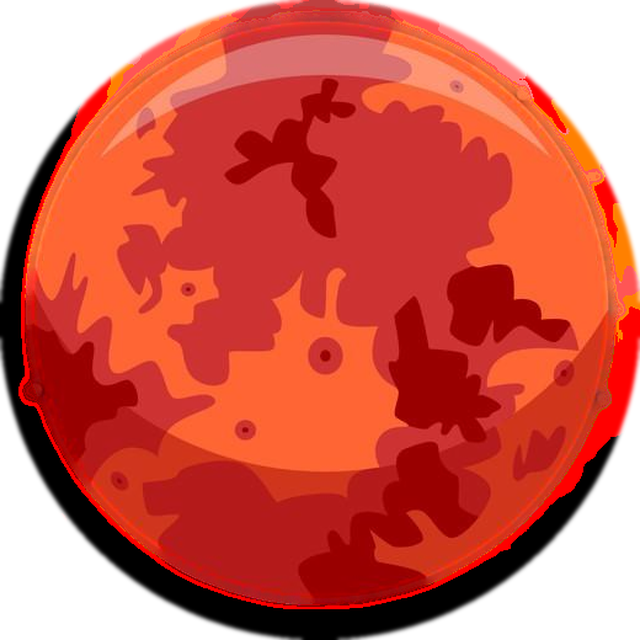
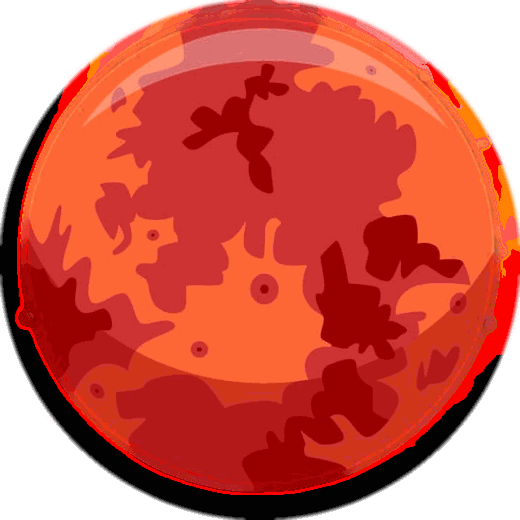
交付级优化：资源压缩 1.66MB→633KB、产品卡对比度修复、404 品牌化、focus 焦点样式、图片尺寸属性、补 robots/sitemap

diff --git a/index.html b/index.html
@@ -55,7 +55,7 @@
       </div>
     </div>
     <div class="hero-art reveal delay-1" aria-hidden="true">
-      <img src="assets/img/mars-planet.png" alt="" width="640" height="640">
+      <img src="assets/img/mars-planet.png" alt="" width="520" height="520">
     </div>
   </div>
   <div class="hero-stats">
@@ -194,7 +194,7 @@
     <div class="prod-grid">
       <article class="prod-card reveal">
         <a href="product-astaxanthin.html" class="prod-img" aria-label="查看双抗虾青素胶囊详情">
-          <img src="assets/img/product-astaxanthin.jpg" alt="POPNUTRI 双抗虾青素胶囊" loading="lazy">
+          <img src="assets/img/product-astaxanthin.jpg" alt="POPNUTRI 双抗虾青素胶囊" width="800" height="976" loading="lazy">
         </a>
         <div class="prod-body">
           <h3><a href="product-astaxanthin.html">双抗虾青素胶囊</a></h3>
@@ -206,7 +206,7 @@
       </article>
       <article class="prod-card reveal delay-1">
         <a href="product-oyster.html" class="prod-img" aria-label="查看牡蛎袋鼠精华胶囊详情">
-          <img src="assets/img/product-oyster.jpg" alt="POPNUTRI 牡蛎袋鼠精华胶囊" loading="lazy">
+          <img src="assets/img/product-oyster.jpg" alt="POPNUTRI 牡蛎袋鼠精华胶囊" width="620" height="440" loading="lazy">
         </a>
         <div class="prod-body">
           <h3><a href="product-oyster.html">牡蛎袋鼠精华胶囊</a></h3>
@@ -233,17 +233,17 @@
     </div>
     <div class="partner-grid">
       <article class="partner-card reveal">
-        <div class="p-logo"><img src="assets/img/logo-unipharm.png" alt="UNIPHARM" loading="lazy"></div>
+        <div class="p-logo"><img src="assets/img/logo-unipharm.jpg" alt="UNIPHARM" width="546" height="457" loading="lazy"></div>
         <h3>新西兰联合制药</h3>
         <p>45 年+ 制药集团 · RMP / FDA / HACCP 认证</p>
       </article>
       <article class="partner-card reveal delay-1">
-        <div class="p-logo"><img src="assets/img/logo-aunew.png" alt="AUNEW" loading="lazy"></div>
+        <div class="p-logo"><img src="assets/img/logo-aunew.jpg" alt="AUNEW" width="585" height="232" loading="lazy"></div>
         <h3>澳纽集团</h3>
         <p>成立于 1994 年 · 横跨大洋洲与亚洲的跨国公司</p>
       </article>
       <article class="partner-card reveal delay-2">
-        <div class="p-logo"><img src="assets/img/logo-popnutri.png" alt="POPNUTRI" loading="lazy"></div>
+        <div class="p-logo"><img src="assets/img/logo-popnutri.jpg" alt="POPNUTRI" width="410" height="410" loading="lazy"></div>
         <h3>POPNUTRI 葆力舒</h3>
         <p>新西兰营养健康管理专家品牌</p>
       </article>

diff --git a/products.html b/products.html
@@ -45,9 +45,9 @@
   <div class="container">
     <div class="prod-story reveal">
       <div class="story-imgs">
-        <img src="assets/img/unipharm-hq.jpg" alt="新西兰联合制药 UNIPHARM 总部" loading="lazy">
-        <img src="assets/img/gmp-factory.jpg" alt="新西兰 GMP 生产基地" loading="lazy">
-        <img src="assets/img/nz-coast.jpg" alt="新西兰天然海岸" loading="lazy">
+        <img src="assets/img/unipharm-hq.jpg" alt="新西兰联合制药 UNIPHARM 总部" width="453" height="456" loading="lazy">
+        <img src="assets/img/gmp-factory.jpg" alt="新西兰 GMP 生产基地" width="639" height="504" loading="lazy">
+        <img src="assets/img/nz-coast.jpg" alt="新西兰天然海岸" width="800" height="800" loading="lazy">
       </div>
       <p class="story-cap">FROM NEW ZEALAND · UNIPHARM 新西兰联合制药（45 年+ 制药集团）× AUNEW 澳纽集团（成立于 1994 年）联合出品</p>
     </div>
@@ -55,7 +55,7 @@
     <div class="prod-grid">
       <article class="prod-card reveal">
         <a href="product-astaxanthin.html" class="prod-img" aria-label="查看双抗虾青素胶囊详情">
-          <img src="assets/img/product-astaxanthin.jpg" alt="POPNUTRI 双抗虾青素胶囊" loading="lazy">
+          <img src="assets/img/product-astaxanthin.jpg" alt="POPNUTRI 双抗虾青素胶囊" width="800" height="976" loading="lazy">
         </a>
         <div class="prod-body">
           <h3><a href="product-astaxanthin.html">双抗虾青素胶囊</a></h3>
@@ -67,7 +67,7 @@
       </article>
       <article class="prod-card reveal delay-1">
         <a href="product-oyster.html" class="prod-img" aria-label="查看牡蛎袋鼠精华胶囊详情">
-          <img src="assets/img/product-oyster.jpg" alt="POPNUTRI 牡蛎袋鼠精华胶囊" loading="lazy">
+          <img src="assets/img/product-oyster.jpg" alt="POPNUTRI 牡蛎袋鼠精华胶囊" width="620" height="440" loading="lazy">
         </a>
         <div class="prod-body">
           <h3><a href="product-oyster.html">牡蛎袋鼠精华胶囊</a></h3>
@@ -85,7 +85,7 @@
   <div class="container">
     <div class="sec-head reveal">
       <p class="kicker gold">COMING SOON</p>
-      <h2 style="color:#fff;">即将上市 <em>未来产品规划</em></h2>
+      <h2>即将上市 <em>未来产品规划</em></h2>
       <p class="sub light">持续丰富大健康产品线，覆盖护肝、关节、心脑等更多健康场景。</p>
     </div>
     <div class="coming-grid">

diff --git a/404.html b/404.html
@@ -4,19 +4,26 @@
 <meta charset="UTF-8">
 <meta name="viewport" content="width=device-width, initial-scale=1.0">
 <title>页面未找到 — 香港火星文化传媒有限公司</title>
+<meta name="robots" content="noindex">
 <link rel="icon" type="image/svg+xml" href="assets/favicon.svg">
 <link rel="stylesheet" href="assets/css/style.css">
 <style>
-  .nf { min-height: 100vh; display: flex; flex-direction: column; align-items: center; justify-content: center; text-align: center; padding: 24px; }
-  .nf h1 { font-size: 72px; color: var(--red); }
-  .nf p { color: var(--muted); margin: 10px 0 26px; }
+  body { background: var(--dark); min-height: 100vh; }
+  .nf { min-height: 100vh; display: flex; flex-direction: column; align-items: center; justify-content: center; text-align: center; padding: 24px; position: relative; }
+  .nf::before { content: ""; position: absolute; inset: 0; background: url("assets/img/network.svg") center/cover no-repeat; opacity: .5; }
+  .nf > * { position: relative; }
+  .nf-brand { display: flex; align-items: center; gap: 10px; color: rgba(255, 255, 255, .85); font-size: 15px; letter-spacing: .12em; margin-bottom: 34px; }
+  .nf-dot { width: 26px; height: 26px; border-radius: 50%; flex: none; background: radial-gradient(circle at 35% 30%, #e8546c, var(--red) 55%, var(--red-deep)); box-shadow: 0 0 0 3px rgba(200, 16, 46, .18); }
+  .nf h1 { font-size: clamp(72px, 12vw, 120px); color: var(--red-soft); line-height: 1; text-shadow: 0 0 60px rgba(200, 16, 46, .45); }
+  .nf p { color: rgba(255, 255, 255, .6); margin: 16px 0 34px; letter-spacing: .06em; }
 </style>
 </head>
 <body>
   <div class="nf">
+    <p class="nf-brand"><span class="nf-dot" aria-hidden="true"></span>火星文化传媒 · MARS CULTURE MEDIA</p>
     <h1>404</h1>
     <p>页面未找到，请返回首页继续浏览。</p>
-    <a class="btn btn-primary" href="/">返回首页</a>
+    <a class="btn btn-primary" href="./">返回首页</a>
   </div>
 </body>
 </html>

diff --git a/product-astaxanthin.html b/product-astaxanthin.html
@@ -37,7 +37,7 @@
   <div class="container">
     <p class="crumb"><a href="index.html">首页</a> / <a href="products.html">产品中心</a> / 双抗虾青素胶囊</p>
     <h1>双抗虾青素胶囊 <em>Astaxanthin Complex Softgel</em></h1>
-    <p class="page-sub">POPNUTRI 葆力舒 · 新西兰原装进口 · 每粒 30 粒装膳食补充剂</p>
+    <p class="page-sub">POPNUTRI 葆力舒 · 新西兰原装进口 · 30 粒/瓶膳食补充剂</p>
   </div>
 </section>
 
@@ -45,7 +45,7 @@
   <div class="container detail-grid">
     <div class="detail-media reveal">
       <div class="detail-frame">
-        <img src="assets/img/product-astaxanthin.jpg" alt="POPNUTRI 双抗虾青素胶囊 产品图">
+        <img src="assets/img/product-astaxanthin.jpg" alt="POPNUTRI 双抗虾青素胶囊 产品图" width="800" height="976">
       </div>
       <div class="badges">
         <span>30 粒/瓶</span><span>新西兰原装</span><span>RMP 认证</span><span>GMP 认证</span><span>HACCP 认证</span>
@@ -112,11 +112,11 @@
     </div>
     <div class="cert-grid reveal">
       <figure>
-        <img src="assets/img/cert-astamaz-auth.jpg" alt="AstaMAZ® 商标授权书" loading="lazy">
+        <img src="assets/img/cert-astamaz-auth.jpg" alt="AstaMAZ® 商标授权书" width="569" height="757" loading="lazy">
         <figcaption>AstaMAZ® 商标授权书（Letter of Authorization）</figcaption>
       </figure>
       <figure>
-        <img src="assets/img/cert-astamaz-origin.jpg" alt="AstaMAZ® 虾青素原产地证明" loading="lazy">
+        <img src="assets/img/cert-astamaz-origin.jpg" alt="AstaMAZ® 虾青素原产地证明" width="557" height="788" loading="lazy">
         <figcaption>AstaMAZ® 虾青素原产地证明（Country of Origin Statement）</figcaption>
       </figure>
     </div>

diff --git a/assets/css/style.css b/assets/css/style.css
@@ -28,6 +28,7 @@ img { display: block; max-width: 100%; }
 a { color: inherit; text-decoration: none; }
 ul, ol { list-style: none; }
 section[id] { scroll-margin-top: 84px; }
+:focus-visible { outline: 2px solid var(--red); outline-offset: 3px; border-radius: 4px; }
 
 .container { max-width: 1140px; margin: 0 auto; padding: 0 24px; }
 
@@ -147,10 +148,12 @@ section[id] { scroll-margin-top: 84px; }
 .products .prod-card { background: rgba(255, 255, 255, .045); border-color: rgba(255, 255, 255, .13); box-shadow: none; }
 .products .prod-card:hover { border-color: rgba(201, 163, 92, .55); box-shadow: none; }
 .prod-img { background: #fff; padding: 18px; display: flex; align-items: center; justify-content: center; height: 330px; }
-.prod-img img { max-height: 100%; max-width: 100%; object-fit: contain; }
+.prod-img img { max-height: 100%; max-width: 100%; object-fit: contain; transition: transform .45s ease; }
+.prod-card:hover .prod-img img { transform: scale(1.04); }
 .prod-body { padding: 30px 30px 32px; }
 .prod-body h3 { font-size: 22px; letter-spacing: .04em; }
-.prod-en { color: var(--gold); font-size: 13px; letter-spacing: .1em; margin: 6px 0 14px; }
+.prod-en { color: #9a7b39; font-size: 13px; letter-spacing: .1em; margin: 6px 0 14px; }
+.products .prod-en { color: var(--gold); }
 .prod-body > p { color: var(--body); font-size: 14.5px; line-height: 1.95; text-align: justify; }
 .products .prod-body > p { color: rgba(255, 255, 255, .78); }
 .tags { display: flex; flex-wrap: wrap; gap: 10px; margin-top: 18px; }

diff --git a/partners.html b/partners.html
@@ -50,17 +50,17 @@
         <p>与合肥三只羊文化传媒合资 · 2024.8.21 湾仔揭幕</p>
       </article>
       <article class="partner-card reveal delay-1">
-        <div class="p-logo"><img src="assets/img/logo-unipharm.png" alt="UNIPHARM" loading="lazy"></div>
+        <div class="p-logo"><img src="assets/img/logo-unipharm.jpg" alt="UNIPHARM" width="546" height="457" loading="lazy"></div>
         <h3>新西兰联合制药</h3>
         <p>45 年+ 制药集团 · RMP / FDA / HACCP 认证</p>
       </article>
       <article class="partner-card reveal delay-2">
-        <div class="p-logo"><img src="assets/img/logo-aunew.png" alt="AUNEW" loading="lazy"></div>
+        <div class="p-logo"><img src="assets/img/logo-aunew.jpg" alt="AUNEW" width="585" height="232" loading="lazy"></div>
         <h3>澳纽集团</h3>
         <p>成立于 1994 年 · 横跨大洋洲与亚洲的跨国公司</p>
       </article>
       <article class="partner-card reveal">
-        <div class="p-logo"><img src="assets/img/logo-popnutri.png" alt="POPNUTRI" loading="lazy"></div>
+        <div class="p-logo"><img src="assets/img/logo-popnutri.jpg" alt="POPNUTRI" width="410" height="410" loading="lazy"></div>
         <h3>POPNUTRI 葆力舒</h3>
         <p>新西兰营养健康管理专家品牌 · 线上独家运营</p>
       </article>

diff --git a/product-oyster.html b/product-oyster.html
@@ -37,7 +37,7 @@
   <div class="container">
     <p class="crumb"><a href="index.html">首页</a> / <a href="products.html">产品中心</a> / 牡蛎袋鼠精华胶囊</p>
     <h1>牡蛎袋鼠精华胶囊 <em>Oyster Kangaroo Essence</em></h1>
-    <p class="page-sub">POPNUTRI 葆力舒 · BOWLYSU 系列 · 新西兰原装进口 · 60 粒装膳食补充剂</p>
+    <p class="page-sub">POPNUTRI 葆力舒 · BOWLYSU 系列 · 新西兰原装进口 · 60 粒/瓶膳食补充剂</p>
   </div>
 </section>
 
@@ -45,7 +45,7 @@
   <div class="container detail-grid">
     <div class="detail-media reveal">
       <div class="detail-frame">
-        <img src="assets/img/product-oyster.jpg" alt="POPNUTRI 牡蛎袋鼠精华胶囊 产品图">
+        <img src="assets/img/product-oyster.jpg" alt="POPNUTRI 牡蛎袋鼠精华胶囊 产品图" width="620" height="440">
       </div>
       <div class="badges">
         <span>60 粒/瓶</span><span>新西兰原装</span><span>发明专利 792215</span><span>MPI RMP</span><span>SGS GMP</span>

diff --git a/README.md b/README.md
@@ -46,7 +46,8 @@ python -m http.server 8080
 1. 仓库根目录新增 `CNAME` 文件，内容为域名（如 `www.example.com`），提交；
 2. 域名解析添加：`www` 的 CNAME 记录指向 `balloontmz.github.io`；或裸域 A 记录指向
    `185.199.108.153` / `185.199.109.153` / `185.199.110.153` / `185.199.111.153`；
-3. 在 Settings → Pages → Custom domain 填入域名并开启 **Enforce HTTPS**。
+3. 在 Settings → Pages → Custom domain 填入域名并开启 **Enforce HTTPS**；
+4. 同步把 `robots.txt` 和 `sitemap.xml` 里的 `https://balloontmz.github.io/hkmars/` 换成新域名。
 
 ## 内容来源
 
